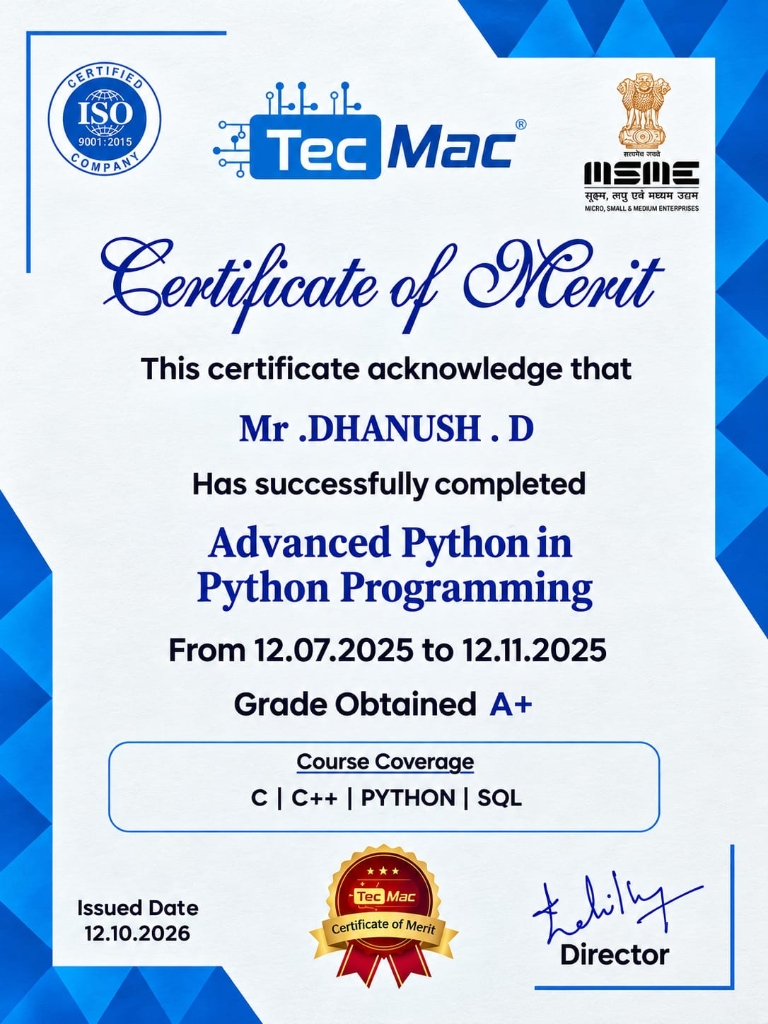
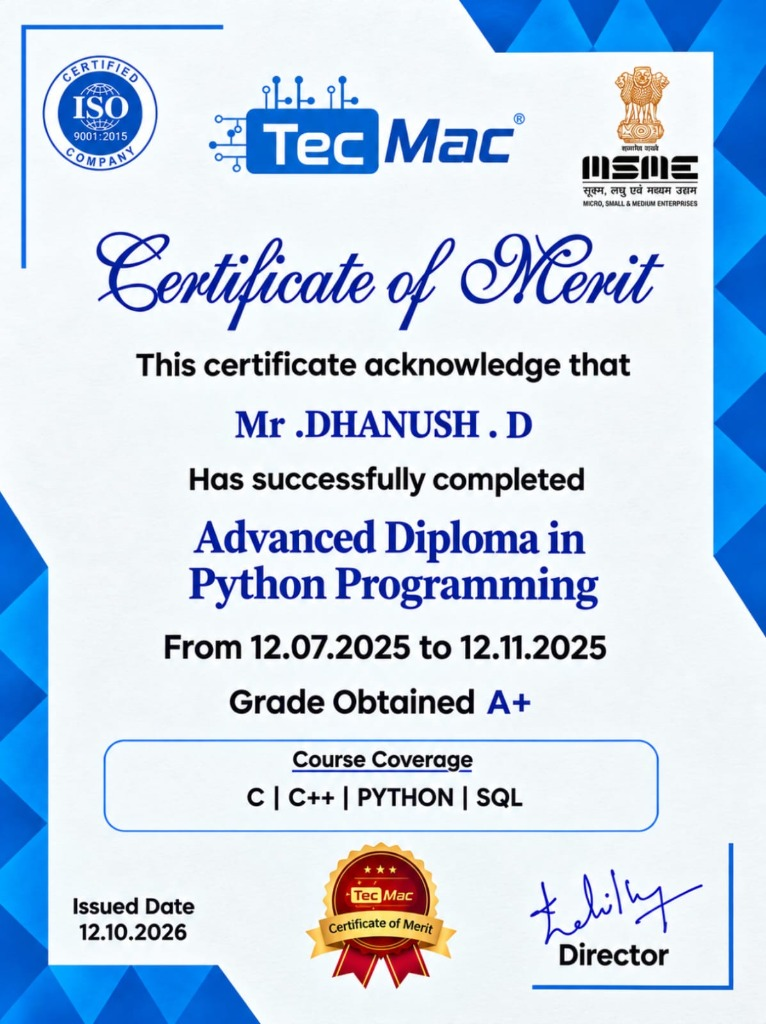
feat: replace certificate image with Advanced Diploma in Python Programming

diff --git a/src/pages/Certificates.jsx b/src/pages/Certificates.jsx
@@ -4,9 +4,9 @@ import { Award, ExternalLink } from 'lucide-react';
 const Certificates = () => {
   const certificatesData = [
     {
-      title: "Advanced Python in Python Programming",
+      title: "Advanced Diploma in Python Programming",
       organization: "Tec Mac (ISO 9001:2015 & MSME)",
-      description: "Awarded Certificate of Merit with Grade A+ for successfully completing advanced programming covering C, C++, Python, and SQL.",
+      description: "Awarded Certificate of Merit with Grade A+ for successfully completing the Advanced Diploma covering C, C++, Python, and SQL.",
       image: "/cert_advanced_python.jpg"
     },
     {
